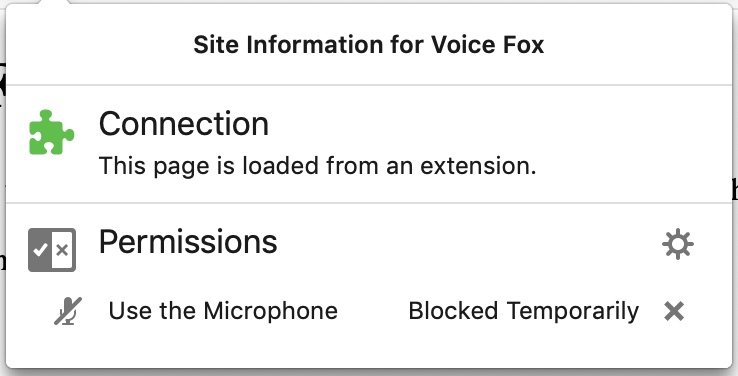
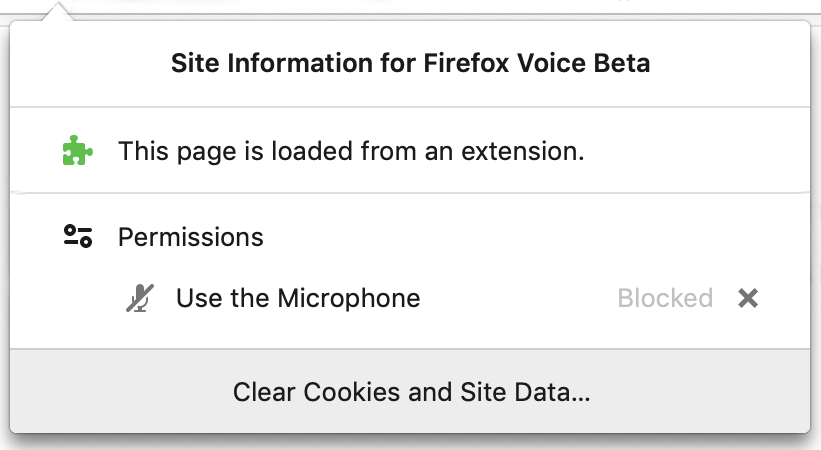
Fix #650, update permission images

diff --git a/extension/onboarding/onboarding.css b/extension/onboarding/onboarding.css
@@ -215,8 +215,8 @@ p {
 }
 
 #must-allow img.security-panel {
-  width: 369px;
-  height: 188px;
+  width: 410px;
+  height: 225px;
 }
 
 #footer {
